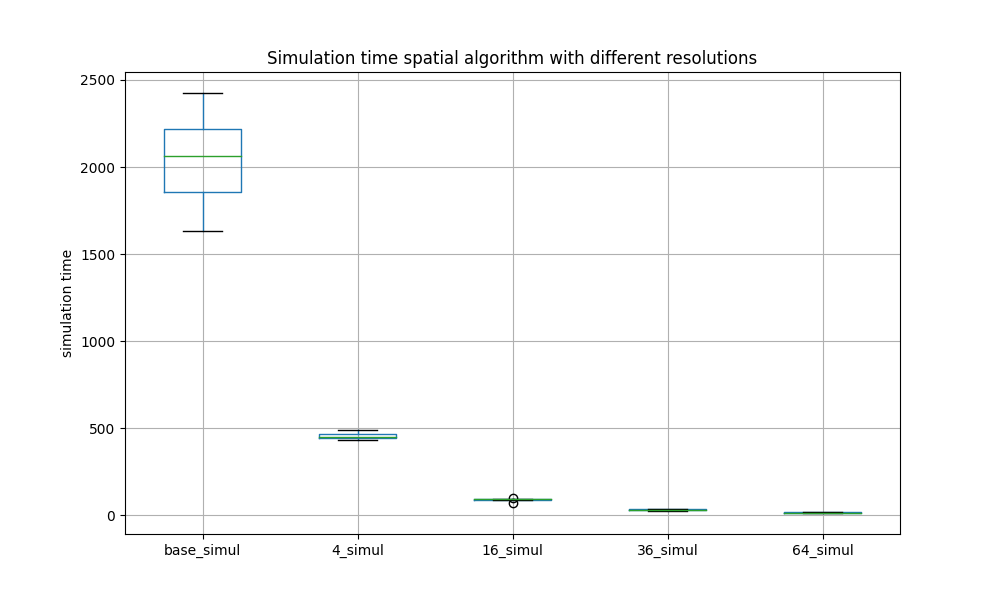
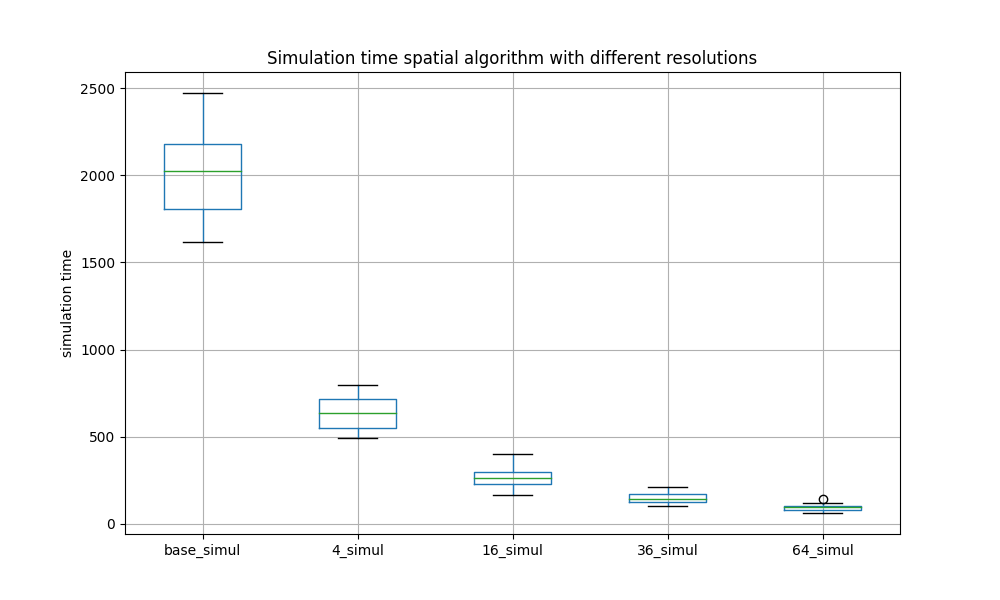
added resolution 100

diff --git a/spatial_model/analysis.py b/spatial_model/analysis.py
@@ -1,5 +1,7 @@
 import pandas as pd
 import numpy as np
+import matplotlib.pyplot as plt
+import ast
 
 
 
@@ -8,19 +10,37 @@ df = pd.read_csv('data_ngb.csv', comment='#', skip_blank_lines=True).dropna(axis
 df = df.drop(columns=['simulation_time', 'elapsed_time', 'state_world'])
 data = np.reshape(df.values, (int(df.values.shape[1]**(1/2)), int(df.values.shape[1]**(1/2))))
 
-print(data)
-
 avgs = np.zeros(data.shape)
 
 for i in range(data.shape[0]):
 
     for j in range(data.shape[1]):
 
-        freq = data[i, j][:4].strip('[]')
-        freq = freq.split()
+        string_array = data[i, j].replace('          ', ',')
+        string_array = string_array.replace('         ', ',')
+        string_array = string_array.replace('        ', ',')
+        string_array = string_array.replace('       ', ',')
+        string_array = string_array.replace('      ', ',')
+        string_array = string_array.replace('     ', ',')
+        string_array = string_array.replace('    ', ',')
+        string_array = string_array.replace('   ', ',')
+        string_array = string_array.replace('  ', ',')
+        string_array = string_array.replace(' ', ',')
+        if string_array[1] == ',':
+            string_array = string_array[0] + string_array[2:]
+        
+        proper_array = ast.literal_eval(string_array)
+        
+        for k in range(len(proper_array)):
+            avgs[i, j] += k*proper_array[k]
 
-        numeric_freq = [float(val) for val in freq]
+        avgs[i, j] /= sum(proper_array)
 
-        avgs[i, j] = sum(numeric_freq)
+norm = np.max(avgs)
 
-print(avgs)
+avgs /= norm
+
+plt.imshow(avgs, cmap='Blues', vmin=0, vmax=1)
+plt.colorbar()  # Add a colorbar for reference
+plt.title("Average genotipic class on each area")
+plt.savefig("genotipes.png")

diff --git a/algo_comparison/analysis_spatial.py b/algo_comparison/analysis_spatial.py
@@ -12,7 +12,7 @@ df = pd.read_csv('data_spatial.csv', comment='#', skip_blank_lines=True).dropna(
 plt.figure(figsize=(10, 6))
 
 # Use the boxplot() method on the DataFrame
-df.boxplot(column=["base_elpsd", "4_elpsd", "16_elpsd", "36_elpsd", "64_elpsd"])
+df.boxplot(column=["base_elpsd", "4_elpsd", "16_elpsd", "36_elpsd", "64_elpsd", "100_elpsd"])
 
 # Set labels and title
 #plt.xlabel("")
@@ -27,7 +27,7 @@ plt.savefig("eff_spatial.png")
 plt.figure(figsize=(10, 6))
 
 # Use the boxplot() method on the DataFrame
-df.boxplot(column=["base_simul", "4_simul", "16_simul", "36_simul", "64_simul"])
+df.boxplot(column=["base_simul", "4_simul", "16_simul", "36_simul", "64_simul", "100_simul"])
 
 # Set labels and title
 #plt.xlabel("")

diff --git a/fitness_comparison/analysis.py b/fitness_comparison/analysis.py
@@ -5,7 +5,7 @@ import numpy as np
 
 
 # Read the CSV file into a Pandas DataFrame
-datafile = 'data_m4.csv'
+datafile = 'data.csv'
 df = pd.read_csv(datafile, comment='#', skip_blank_lines=True).dropna(axis=0).reset_index(drop=True)
 
 
